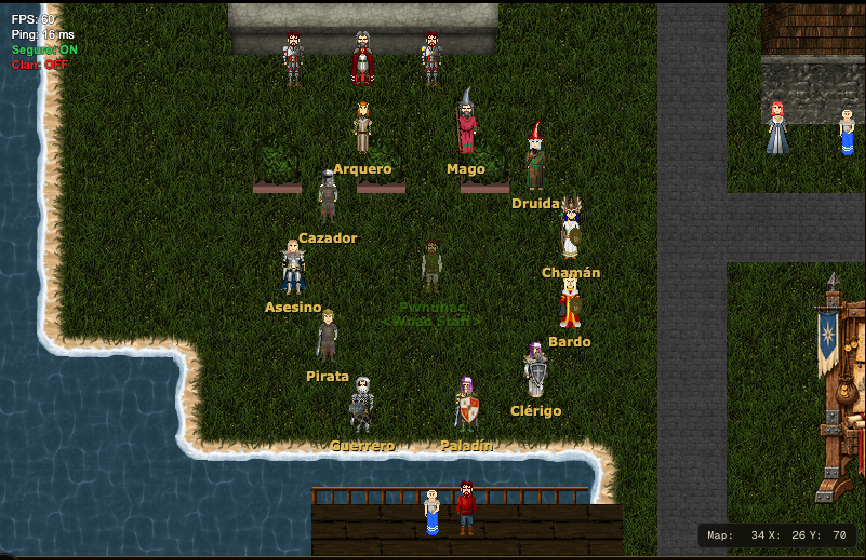
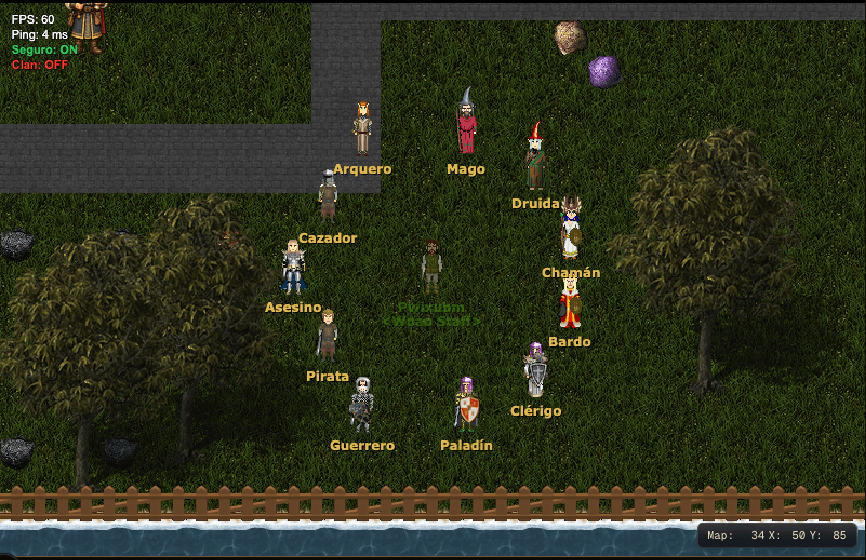
Entrenadores de Nix al jardín del sur, junto al mar
Estaban en el pasto del oeste, al lado de la fuente, el muelle y los
guardias de una entrada. Ahora van al jardín del sur (50,85), entre la
última calle y el mar: lejos de calles, puertas y otras criaturas (ninguna
a menos de 3 baldosas) y sin que el mapa les tape el cuerpo.

diff --git a/server/src/scripts/applyClassTrainersData.ts b/server/src/scripts/applyClassTrainersData.ts
@@ -202,7 +202,8 @@ type Forma = "circulo" | "fila" | "herradura";
 type Orient = "norte" | "sur" | "este" | "oeste";
 const CITIES: Array<{ name: string; map: number; x: number; y: number; forma: Forma; giro?: number; orient?: Orient }> = [
     { name: "Ullathorpe", map: 1, x: 24, y: 54, forma: "circulo", giro: 0 },
-    { name: "Nix", map: 34, x: 26, y: 70, forma: "circulo", giro: 4 },
+    // Nix: la franja de pasto del sur, junto al mar, lejos de calles, puertas y otras criaturas.
+    { name: "Nix", map: 34, x: 50, y: 85, forma: "circulo", giro: 4 },
     // En Banderbill no entra un círculo fuera de las calles: van en fila contra la pared sur del bolsón del oeste.
     { name: "Banderbill", map: 59, x: 23, y: 32, forma: "fila", orient: "norte" },
     // Lindos es el mapa 62 (el 63 es la playa del muelle).

diff --git a/docs/ENTRENADORES_DE_CLASE.md b/docs/ENTRENADORES_DE_CLASE.md
@@ -29,7 +29,7 @@ Uno por clase jugable, en este orden (en el círculo, desde arriba y como las ag
 | Ciudad | Mapa | Forma | Centro | Dónde |
 |---|---|---|---|---|
 | Ullathorpe | 1 | círculo | (24,54) | el pasto junto al agua, al oeste |
-| Nix | 34 | círculo | (26,70) | el pasto junto al agua, al suroeste; la calle queda al costado |
+| Nix | 34 | círculo | (50,85) | el jardín del sur, junto al mar, lejos de calles, puertas y otras criaturas |
 | Banderbill | 59 | fila | (23,32) | contra la pared sur del bolsón del oeste, mirando al norte; la plaza queda libre |
 | Lindos | 62 | círculo | (54,37) | la playa al lado del sastre |
 | Arghal | 151 | círculo | (30,16) | el pasto junto al agua, al norte de las tiendas |
